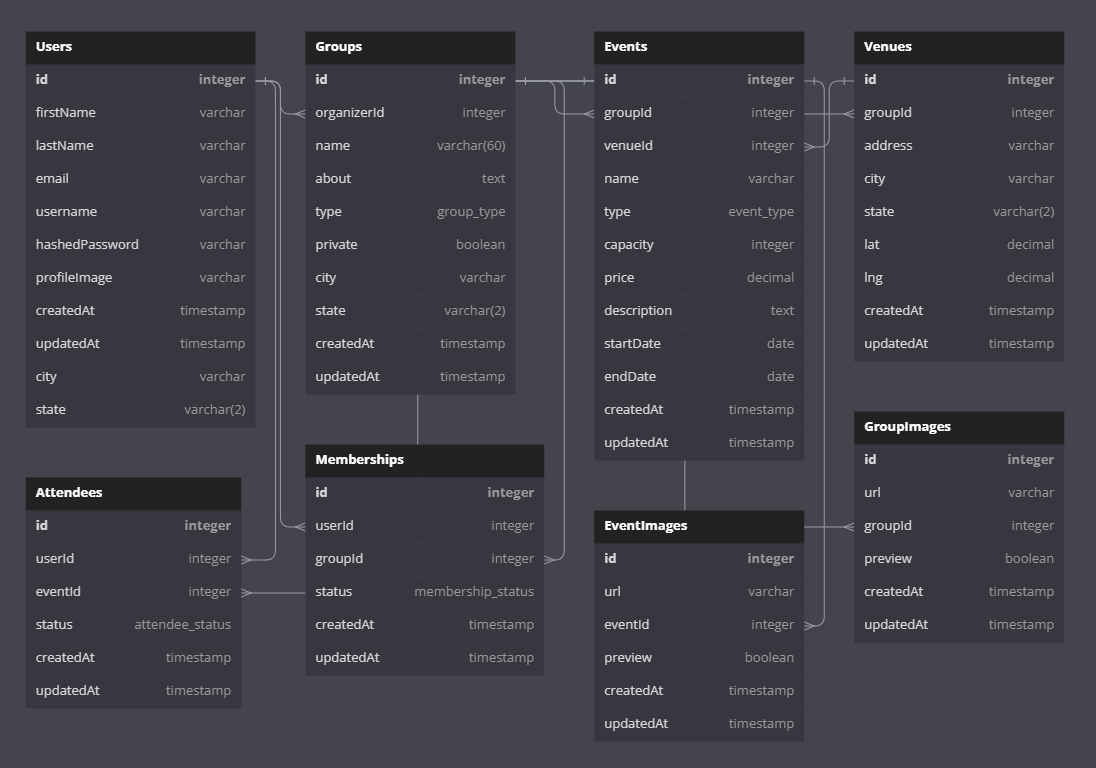
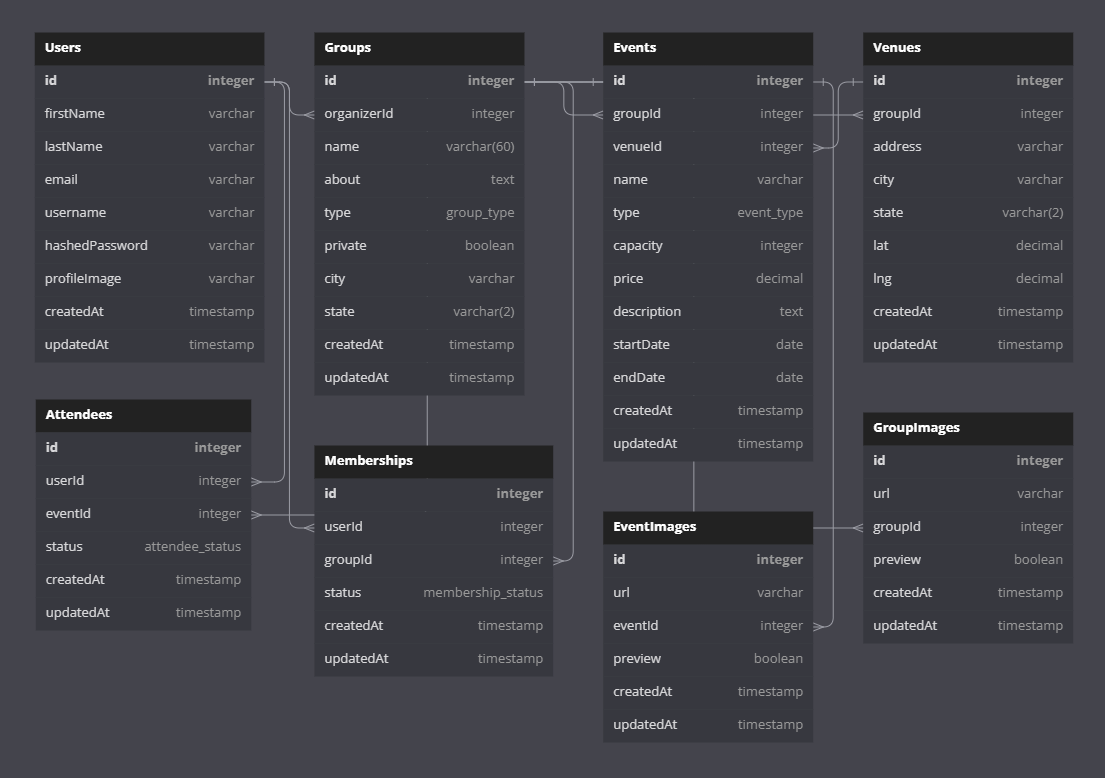
Finished setting up associations

diff --git a/backend/db/models/user.js b/backend/db/models/user.js
@@ -13,7 +13,19 @@ module.exports = (sequelize, DataTypes) => {
      * The `models/index` file will call this method automatically.
      */
     static associate(models) {
-      // define association here
+      User.hasMany(models.Group, {
+        foreignKey: 'organizerId'
+      })
+      User.belongsToMany(models.Group, {
+        through: models.Membership,
+        foreignKey: 'userId',
+        otherKey: 'groupId'
+      })
+      User.belongsToMany(models.Event, {
+        through: models.Attendances,
+        foreignKey: 'userId',
+        otherKey: 'eventId'
+      })
     }
   }
   User.init({
@@ -63,25 +75,6 @@ module.exports = (sequelize, DataTypes) => {
       defaultValue: null,
       validate: {
         notEmpty: true
-      }
-    },
-    city: {
-      type: DataTypes.STRING,
-      defaultValue: null,
-      validate: {
-        isAlpha: true,
-        notEmpty: true
-      }
-    },
-    state: {
-      type: DataTypes.STRING,
-      defaultValue: null,
-      validate: {
-        isAlpha: true,
-        isUppercase: true,
-        len: [2,2],
-        notEmpty: true,
-        isIn: states
       }
     }
   }, {

diff --git a/backend/db/models/group.js b/backend/db/models/group.js
@@ -13,7 +13,27 @@ module.exports = (sequelize, DataTypes) => {
      * The `models/index` file will call this method automatically.
      */
     static associate(models) {
-      // define association here
+      Group.belongsTo(models.User, {
+        foreignKey: 'organizerId'
+      });
+
+      Group.hasMany(models.Venue, {
+        foreignKey: 'groupId'
+      })
+
+      Group.hasMany(models.Event, {
+        foreignKey: 'groupId'
+      })
+
+      Group.belongsToMany(models.User, {
+        through: models.Membership,
+        foreignKey: 'groupId',
+        otherKey: 'userId'
+      })
+
+      Group.hasMany(models.GroupImage, {
+        foreignKey: 'groupId'
+      })
     }
   }
   Group.init({

diff --git a/backend/db/models/event.js b/backend/db/models/event.js
@@ -10,7 +10,23 @@ module.exports = (sequelize, DataTypes) => {
      * The `models/index` file will call this method automatically.
      */
     static associate(models) {
-      // define association here
+      Event.belongsTo(models.Venue, {
+        foreignKey: 'venueId'
+      })
+
+      Event.belongsTo(models.Group, {
+        foreignKey: 'groupId'
+      })
+
+      Event.belongsToMany(models.User, {
+        through: models.Attendance,
+        foreignKey: 'eventId',
+        otherKey: 'userId'
+      })
+
+      Event.hasMany(models.EventImage, {
+        foreignKey: 'eventId'
+      })
     }
   }
   Event.init({

diff --git a/backend/db/models/venue.js b/backend/db/models/venue.js
@@ -13,7 +13,14 @@ module.exports = (sequelize, DataTypes) => {
      * The `models/index` file will call this method automatically.
      */
     static associate(models) {
-      // define association here
+      Venue.belongsTo(models.Group, {
+        foreignKey: 'groupId'
+      })
+
+      Venue.hasMany(models.Event, {
+        foreignKey: 'venueId'
+      })
+
     }
   }
   Venue.init({

diff --git a/backend/db/migrations/20230511180308-create-user.js b/backend/db/migrations/20230511180308-create-user.js
@@ -41,14 +41,6 @@ module.exports = {
         type: Sequelize.STRING,
         defaultValue: null,
       },
-      city: {
-        type: Sequelize.STRING(30),
-        defaultValue: null,
-      },
-      state: {
-        type: Sequelize.STRING(2),
-        defaultValue: null,
-      },
       createdAt: {
         allowNull: false,
         type: Sequelize.DATE,

diff --git a/backend/db/models/eventimage.js b/backend/db/models/eventimage.js
@@ -10,7 +10,9 @@ module.exports = (sequelize, DataTypes) => {
      * The `models/index` file will call this method automatically.
      */
     static associate(models) {
-      // define association here
+      EventImage.belongsTo(models.Event, {
+        foreignKey: 'eventId'
+      })
     }
   }
   EventImage.init({

diff --git a/backend/db/models/groupimage.js b/backend/db/models/groupimage.js
@@ -10,7 +10,9 @@ module.exports = (sequelize, DataTypes) => {
      * The `models/index` file will call this method automatically.
      */
     static associate(models) {
-      // define association here
+      GroupImage.belongsTo(models.Group, {
+        foreignKey: 'groupId'
+      })
     }
   }
   GroupImage.init({

diff --git a/backend/db/migrations/20230513170543-create-attendance.js b/backend/db/migrations/20230513170543-create-attendance.js
@@ -25,7 +25,8 @@ module.exports = {
       },
       status: {
         type: Sequelize.STRING,
-        allowNull: false
+        allowNull: false,
+        defaultValue: 'Waitlist'
       },
       createdAt: {
         allowNull: false,
